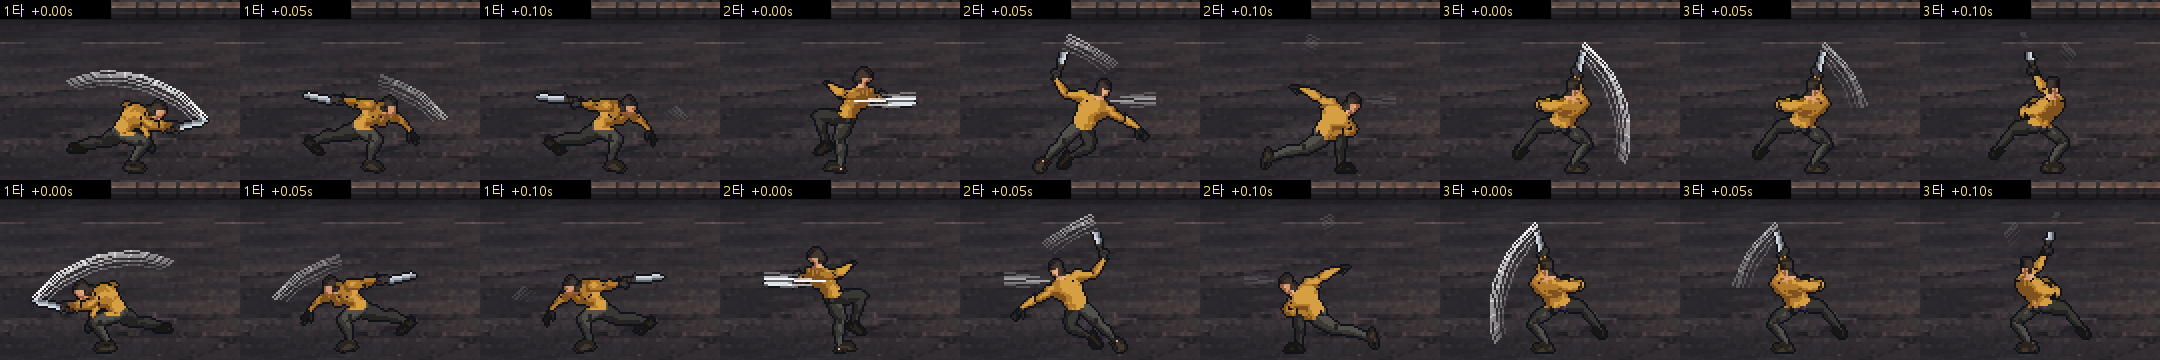
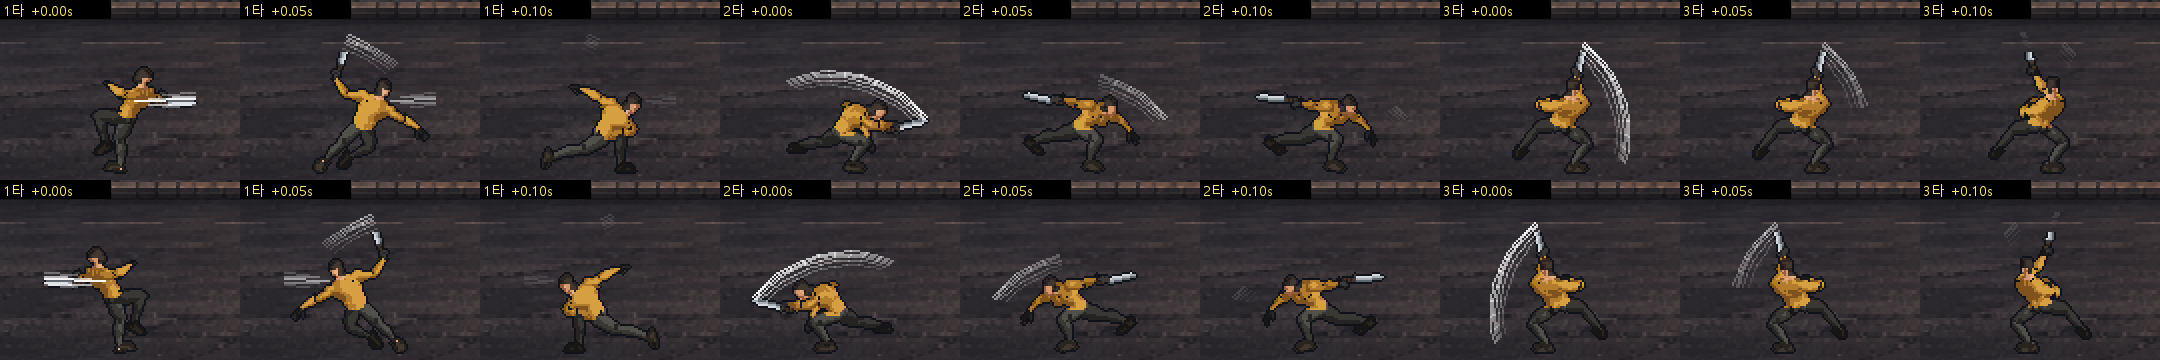
마체테 1·2타 순서 교체: 내지르기 → 가로 베기 → 올려 베기
- 2타 내지르기가 잘 안 보인다는 의견으로 1타와 순서를 바꿔 다시 그림
- look.json, blade.json, 무기 데이터, 문서 갱신

diff --git a/tools/blender/render_character.py b/tools/blender/render_character.py
@@ -32,10 +32,11 @@ PASSES = [
      ["--shift-for", "down=16"]),
     (LIB2,
      # Machete combo: A, B and C (A and B end with their recovery, used when the combo stops).
-     # Machete combo (user order 2026-11-12): 1st a quick sweep (B, wind-up cut off), 2nd a
-     # quick thrust (the front of C, its end as the recovery), 3rd the big rising cut (A from its
+     # Machete combo (user order 2026-11-12): 1st a quick thrust (the front of C, its end as the
+     # recovery), 2nd a quick sweep (B, wind-up cut off; swapped with the thrust because the
+     # thrust's trail read poorly as the 2nd hit), 3rd the big rising cut (A from its
      # crouch on: the standing first frames read as a pause between hits).
-     ["swing=Sword_Regular_B@2-13,Sword_Regular_B_Rec", "swing2=Sword_Regular_C@0-18,Sword_Regular_C@30-48",
+     ["swing=Sword_Regular_C@0-18,Sword_Regular_C@30-48", "swing2=Sword_Regular_B@2-13,Sword_Regular_B_Rec",
       "swing3=Sword_Regular_A@4-,Sword_Regular_A_Rec@7-23"],
      ["swing=4,3", "swing2=4,3", "swing3=6,3"],
      []),

diff --git a/src/weapon.py b/src/weapon.py
@@ -25,8 +25,8 @@ MACHETE = Weapon(
     name="마체테",
     swings=(
         # 1st and 2nd: quick, light blows; 3rd: the big rising cut with a real wind-up.
-        Swing("swing", 0.40, 0.12, 2, 42, 20, pi / 3, 110, 0.65, False),    # quick sweep
-        Swing("swing2", 0.40, 0.12, 2, 44, 20, pi / 3, 110, 0.65, False),   # quick thrust
+        Swing("swing", 0.40, 0.12, 2, 44, 20, pi / 3, 110, 0.65, False),    # quick thrust
+        Swing("swing2", 0.40, 0.12, 2, 42, 20, pi / 3, 110, 0.65, False),   # quick sweep
         Swing("swing3", 0.66, 0.26, 6, 50, 24, pi / 3, 320, 0.74, True),    # big rising cut
     ),
     combo_window=0.25,

diff --git a/assets/characters/CHARACTER_WORKFLOW.md b/assets/characters/CHARACTER_WORKFLOW.md
@@ -129,8 +129,8 @@
 | idle | `Idle_Loop` | 4 | |
 | walk | `Walk_Loop` | 12 | 2026-11-11 가볍게 뛰기(`Jog_Fwd_Loop`)를 잠깐 썼으나 실제로 약 6m/s 달리기 동작이라 걷기로 되돌림. 1.7m/s에서 원본의 1.7배 속도로 재생. 8→12칸으로 늘려 땅에 닿은 발이 덜 밀림 |
 | sneak | `Walk_Loop` 위에 `Crouch_Idle_Loop`를 30% 얹음(`Walk_Loop+Crouch_Idle_Loop*0.3`) | 12 | 2026-11-11 30%로 조정(처음 40%), 6→12칸. 섞을 때는 COMBINE(회전을 곱해 더함)을 써야 함. 단순 평균(REPLACE)은 다리가 뒤로 뒤집힘 |
-| swing (1타) | `Sword_Regular_B@2-13` 4칸 + 복귀 `Sword_Regular_B_Rec` 3칸 (두 번째 팩 UAL2) | 7 | 2026-11-12 연타 리듬 지시: 준비 동작을 잘라 빠른 가로 베기. 맞는 칸 인덱스 1 |
-| swing2 (2타) | `Sword_Regular_C@0-18` 4칸 + `Sword_Regular_C@30-48` 3칸 | 7 | 빠른 내지르기(C의 앞부분, 끝부분을 복귀로). 맞는 칸 인덱스 1 |
+| swing (1타) | `Sword_Regular_C@0-18` 4칸 + `Sword_Regular_C@30-48` 3칸 (두 번째 팩 UAL2) | 7 | 빠른 내지르기(C의 앞부분, 끝부분을 복귀로). 맞는 칸 인덱스 1. 2026-11-12 "2타가 잘 안 보임" → 2타에서 1타로 옮김 |
+| swing2 (2타) | `Sword_Regular_B@2-13` 4칸 + 복귀 `Sword_Regular_B_Rec` 3칸 | 7 | 준비 동작을 잘라 빠른 가로 베기. 맞는 칸 인덱스 1 |
 | swing3 (3타) | `Sword_Regular_A@4-` 6칸 + 복귀 `Sword_Regular_A_Rec@7-23` 3칸 | 9 | 크게 숙였다가 베어 올리는 마무리. 처음 서 있는 칸은 타와 타 사이가 멈춘 것처럼 보여 뺌(`@4-`는 4프레임부터 끝까지). 맞는 칸 인덱스 2. 2026-11-11에는 이 동작이 1타(`swing`)였음 |
 | sneak_idle | `Idle_Loop` 위에 `Crouch_Idle_Loop`를 40% 얹음 | 4 | Shift만 누르고 서 있을 때. 시트가 없는 캐릭터는 `sneak` 첫 칸으로 대신함(`character_look.FALLBACK`) |
 | hurt | `Hit_Chest` | 3 | |
@@ -288,3 +288,4 @@
 | 2026-11-12 | 실시간 전투 "시작" | 마체테 3연타 시트(`swing`=칼 베기 A+복귀, `swing2`=B+복귀, `swing3`=C)를 `render_character.py`에 추가하고 다시 그림. 맞는 칸: swing 3, swing2 2, swing3 1(`look.json`). 게임 화면 `previews/realtime_combo.png` |
 | 2026-11-12 | 사용자 지시 "1, 2타는 빠르게, 3타 때 동작이 크게" → "첫 번째를 마지막으로" | 1타 B(준비 잘라냄), 2타 C 앞부분, 3타 A(숙이기부터 끝까지)로 바꿔 다시 그림. 맞는 칸 1·1·2. 점검: ① 1·2타가 바로 칼을 내밀어 빨라 보임 ② 3타 처음에 서 있는 칸이 있어 멈칫해 보임 → `@4-`로 숙인 자세부터 시작하게 고침 ③ 2타 C 중간에 몸이 비틀리며 칼이 위로 가는 칸이 있으나 0.1초 남짓이라 넘어감. 게임 화면 `previews/combo_pacing_ingame.png` |
 | 2026-11-12 | 사용자 지시 "흰색 검로가 칼 방향에 맞게" | `paint_clothes.py`가 칸마다 칼 선(손잡이 x·y, 칼끝 x·y, 칸 픽셀)을 `<캐릭터>/blade.json`에 씀. 시트 그림은 그대로(차이 없음). 게임 검로가 이 선을 따름. 점검: ① 1타 머리 위로 넘어오는 호 ② 2타 내지르기는 직선 잔상 ③ 3타 아래에서 위로 올라가는 호 ④ 왼쪽을 볼 때 좌우 반전 맞음. 게임 화면 `previews/blade_trail_ingame.png` |
+| 2026-11-12 | 사용자 지시 "2타가 조금 잘 안 보임, 차라리 1, 2타 순서를 바꾸자" | `render_character.py`에서 swing=C(내지르기), swing2=B(가로 베기)로 바꿔 다시 그림. `look.json`·`blade.json`도 함께 바뀜. 점검: ① 1타 직선 잔상 ② 2타 머리 위 호 ③ 3타 올려 베기 호 ④ 좌우 반전 맞음. 게임 화면 `previews/blade_trail_ingame.png` |

diff --git a/PRD.md b/PRD.md
@@ -19,6 +19,7 @@
 
 - **v3.0 (2026-11-12) — 전투를 실시간으로 되돌림.** 턴제(BG3식)의 재미는 매 턴 고를 선택지(주문·기술·환경·동료 조합)가 많은 데서 나오는데, 2D 학기 과제의 콘텐츠량으로는 "다가가 때리고 주사위를 기다리는" 반복이 되어 재미가 반감된다고 판단했다(사용자 결정). 1차 발표대로 **실시간 근접 전투**(공격 예고를 보고 회피·반격)로 간다. 선택의 재미는 전투 밖으로 옮긴다: 싸울지 피할지(은신·기습·우회), 생존자 관계. 혼자 싸우는 주인공으로 시작하고 동료는 지원 역할로 다시 정한다. 주무기는 **마체테**(빠른 베기 연타, 2026-11-12 결정). 무기는 데이터로 만들어 나중에 소방 도끼·쇠파이프 등을 더한다. 턴제 코드는 지우지 않고 보관한다. 아래 12절(턴제 전투)은 실시간 설계로 다시 쓸 때까지 참고용이다.
 - **v3.1 연타 리듬 (2026-11-12, 사용자 지시)** — 연타는 뒤로 갈수록 동작이 커진다. 1타 가로 베기·2타 내지르기는 빠르고 가벼운 타(처음 0.32·0.34초 → v3.2에서 0.4초, 피해 2), 3타 올려 베기는 숙였다가 크게 베어 올리는 마무리(0.66초, 0.26초에 닿음, 피해 6, 밀어내기 2배 이상). 마무리 타는 무기 데이터의 `heavy` 표시로 히트스톱·흔들림·숫자가 한 단계 커진다(모든 무기 공통 규칙, `hit_feel.weight`). 기습은 첫 타 기준 2×3=6.
+- **v3.3 1·2타 순서 교체 (2026-11-12, 사용자 지시)** — "2타가 조금 잘 안 보임, 차라리 1, 2타 순서를 바꾸자." 1타 내지르기 → 2타 가로 베기 → 3타 올려 베기. 이렇게 하면 연타가 직선 → 머리 위 호 → 큰 올려 베기 호로 점점 커진다.
 - **v3.2 검로와 1·2타 길이 (2026-11-12, 사용자 지시)** — 흰 검로는 고정된 호 대신 실제 칼이 지나간 길을 따른다: 맞는 칸 직전 칸의 칼에서 맞는 칸의 칼까지 손잡이를 축으로 돈 초승달, 다음 칸이 보이면 그 뒤 동작까지. 한 칸 사이 155° 넘게 돌면(내지르기) 칼끝 뒤 직선 잔상. 칼 데이터가 있는 모든 캐릭터·무기에 공통. 1·2타 길이 0.4초(닿는 시점 0.12초).
 - **v3.0 첫 구현 (2026-11-12)** — 마체테 3연타(올려 베기 3, 가로 베기 3, 내지르기 5 피해, 휘두르는 중 클릭하면 다음 타가 회복 동작을 끊고 이어짐), 대시 무적 회피, 피폭체 실시간 행동(추격 → "!" 예고 0.55초 → 할퀴기 2 피해 → 회복, 체력 9, 맞으면 밀려나고 0이 되면 쓰러짐), 기습 3배, 피해 숫자와 공통 타격감. 무기는 데이터(`weapon.py`: 연타마다 시트·시간·맞는 시점·피해·사거리·밀어내기)로 만들어 다른 무기를 더할 수 있다.
 - **v1.0 (2026-11-03)** — 방독면 필터와 물자를 관리하는 실시간 생존 탐색, 생존자와의 근접 전투.

diff --git a/docs/DEVLOG.md b/docs/DEVLOG.md
@@ -92,3 +92,4 @@
 - **실시간 전투 첫 단계:** 공용 무기 데이터와 근접 공격(`weapon.py`), 마체테 3연타(칼 베기 A·B·C 동작을 2D로 그림), 대시 무적 회피, 피폭체의 체력·피해·쓰러짐, 기습 3배, 피해 숫자. 처음엔 기습이 안 들어갔다: 칼이 닿는 순간 판정해서 그 사이 피폭체가 알아챘기 때문 → 휘두르기를 시작한 순간 들키지 않았으면 기습으로 고침. 자동 점검(연타·피격·회피·기습·처치) 통과.
 - **연타 리듬:** 사용자 의견 "1·2타는 빠르게, 3타 때 동작이 크게" + "첫 번째를 마지막으로". 크게 숙였다 올려 베는 동작을 3타로 옮기고 1·2타는 준비 동작을 잘라 빠르게(0.32·0.34초, 피해 2), 3타는 0.66초·피해 6·큰 밀어내기. 마무리 타는 무기 데이터의 `heavy` 표시로 타격감이 한 단계 커진다(공통 규칙). 3타 처음에 서 있는 칸이 멈칫해 보여 숙인 자세부터 시작하게 잘랐다(렌더러가 `동작@4-`처럼 끝을 생략한 구간을 받게 함).
 - **검로를 칼 방향대로:** 흰 검로가 늘 같은 모양의 호라서 칼과 따로 놀았다. 옷 그리기 도구가 칸마다 칼 위치를 `blade.json`으로 남기고, 게임은 칼이 실제로 돈 길을 따라 초승달을 그린다. 처음엔 내지르기가 뒤→앞으로 180° 뒤집혀 머리 위로 큰 호가 생겼다 → 한 칸 사이에 너무 크게 돌면 칼끝 뒤 직선 잔상으로. 맞은 뒤 다음 칸으로 넘어가면 검로도 그 동작을 따라간다. 사용자 요청으로 1·2타를 0.4초로 늘렸다.
+- **1·2타 순서 교체:** "2타가 잘 안 보인다"는 의견으로 내지르기를 1타, 가로 베기를 2타로. 연타가 직선 잔상 → 머리 위 호 → 큰 올려 베기 순으로 점점 커진다.

diff --git a/PLAN.md b/PLAN.md
@@ -141,6 +141,8 @@
 
 - **2026-11-12 · 흰 검로를 칼 방향에 맞게, 1·2타 0.4초** — "흰색 검로가 칼 방향에 맞게 보이게 해 주실래요?" 옷 그리기 도구가 칸마다 칼의 손잡이·끝 위치를 `blade.json`으로 남기고, 게임은 맞는 칸 직전→맞는 칸으로 칼이 돈 길을 따라 초승달 검로를 그린다(크게 돌면 내지르기로 보고 칼끝 뒤로 직선 잔상). 작업 중 "0.3초를 0.4초로 해 줘" → 1·2타 길이를 0.32·0.34초에서 0.4초로(칼이 닿는 시점 0.12초).
 
+- **2026-11-12 · 1·2타 순서 교체** — "2타가 조금 잘 안 보임, 차라리 1, 2타 순서를 바꾸자." 내지르기를 1타, 가로 베기를 2타로 바꿔 다시 그렸다(3타 올려 베기는 그대로).
+
 ## Gemini와의 작업 분담
 
 - 이미지 후보 생성이나 서로 독립적인 초안 작업은 Gemini API에 맡길 수 있다. 예를 들어 NPC 스프라이트와 아이템 아이콘은 각각 규격을 정해 병렬로 요청한다. 같은 동작의 연속 프레임은 한 시트로 요청해 일관성을 맞춘다.

diff --git a/README.md b/README.md
@@ -31,7 +31,7 @@ python src/main.py
 
 피폭체와는 실시간으로 싸웁니다(2026-11-12 턴제에서 전환, [PRD](PRD.md) v3.0).
 
-- `좌클릭`: 마체테로 벱니다. 휘두르는 중에 다시 누르면 가로 베기 → 내지르기 → 올려 베기 3연타로 이어집니다. 1·2타는 빠르고 가볍고, 3타는 크게 베어 올려 가장 셉니다(2·2·6).
+- `좌클릭`: 마체테로 벱니다. 휘두르는 중에 다시 누르면 내지르기 → 가로 베기 → 올려 베기 3연타로 이어집니다. 1·2타는 빠르고 가볍고, 3타는 크게 베어 올려 가장 셉니다(2·2·6).
 - 피폭체 머리 위에 `!`가 뜨면 곧 할퀴기가 옵니다. `Space` 대시 중에는 맞지 않으니 그 순간 피하세요. 맞으면 체력이 2 줄고 뒤로 밀립니다.
 - 들키기 전에 가까이 다가가 휘두르면 **기습**으로 3배 피해를 줍니다.
 - 맞힐 때마다 피해 숫자가 뜨고, 피해가 클수록 멈칫하는 시간과 화면 흔들림이 커집니다(모든 공격에 공통).
